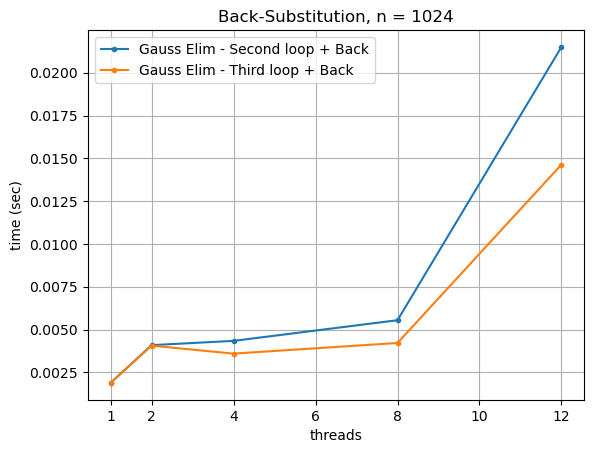
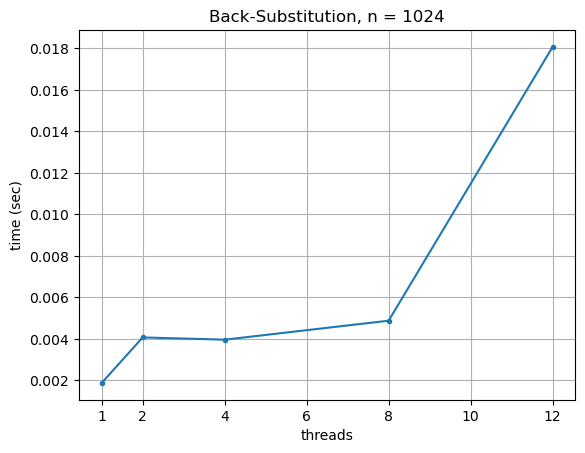
plots done

Changed region(s): [[0.0, 0.0, 1.0, 0.989], [0.1538, 0.8962, 0.1846, 0.9272]]

diff --git a/OpenMP/gauss/plots.py b/OpenMP/gauss/plots.py
@@ -23,11 +23,10 @@ var_map = {
 }
 
 
-# ns = ['1024', '4096']
-# threads = ['1', '2', '4', '8', '12']
-ns = ['10240']
-threads = ['1', '2', '4', '8']
-# vars = ['', '-DTRI1', '-DTRI1 -DBACK', '-DTRI2', '-DTRI2 -DBACK']
+ns = ['1024', '4096']
+threads = ['1', '2', '4', '8', '12']
+# ns = ['10240']
+# threads = ['1', '2', '4', '8']
 vars = ['', '-DTRI1 -DBACK', '-DTRI2 -DBACK']
 
 # var_map = { x: type_map[i] for i, x in enumerate([vars[0]] + ['-DBACK'] + vars[1:]) }
@@ -79,7 +78,6 @@ for dfs_dim in [group for _, group in df_mean.groupby('n')]:
     ax.set_ylabel('time (sec)')
     ax.set_xticks([1] + list(range(2, 17, 2)))
 
-    # ax.plot(df_base['threads'], df_base['time_trig'], '.-', label='Baseline')
     for df in [group for _, group in dfs_dim.groupby('type')]:
         ax.plot(df['threads'], df['time_trig'], '.-', label=type_map[df["type"].values[0]])
 
@@ -88,6 +86,7 @@ for dfs_dim in [group for _, group in df_mean.groupby('n')]:
     plt.close()
 
 for dfs_dim in [group for _, group in df_mean.groupby('n')]:
+
     n = dfs_dim['n'].values[0]
 
     fig, ax = plt.subplots()
@@ -97,11 +96,16 @@ for dfs_dim in [group for _, group in df_mean.groupby('n')]:
     ax.set_ylabel('time (sec)')
     ax.set_xticks([1] + list(range(2, 17, 2)))
 
-    # ax.plot(df_base['threads'], df_base['time_rev'], '.-', label='Baseline')
-
     for df in [group for _, group in dfs_dim.groupby('type')]:
         ax.plot(df['threads'], df['time_rev'], '.-', label=type_map[df["type"].values[0]])
-
+        
     ax.legend(loc='best')
+
+    # subset = ['threads']
+    # dfs_dim['time_rev'] = dfs_dim.groupby(subset)['time_rev'].transform('mean')
+    # dfs_dim.drop_duplicates(subset=subset, keep='first', inplace=True) 
+    # dfs_dim = dfs_dim.reset_index(drop=True)
+    # ax.plot(dfs_dim['threads'], dfs_dim['time_rev'], '.-')
+
     plt.savefig(f'./output/plot-back-{n}.png', bbox_inches='tight')
     plt.close()

diff --git a/OpenMP/gauss/src/gauss.c b/OpenMP/gauss/src/gauss.c
@@ -123,8 +123,7 @@ void back() {
                 sum += A[row * n + col] * x[col];
             
             #pragma omp single 
-            x[row] = (b[row] - sum) / A[row * n + row];
-            
+            x[row] = (b[row] - sum) / A[row * n + row];            
         }			
     #else
         for (size_t temp = 0, row = n - 1; temp < n; row--, temp++) {
